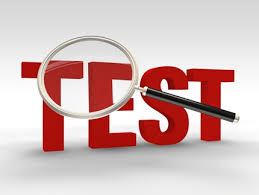
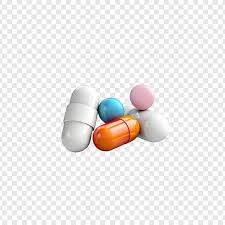
Add files via upload

diff --git a/SlideShowExperiment/slideshow.html b/SlideShowExperiment/slideshow.html
@@ -2,6 +2,12 @@
 <html lang="en">
 <head>
     <meta http-equiv="refresh" content="900"> <!-- Refresh every 15 minutes -->
+	<meta http-equiv="Cache-Control" content="no-cache, no-store, must-revalidate" />
+
+<meta http-equiv="Pragma" content="no-cache" />
+
+<meta http-equiv="Expires" content="0" /> 
+
 
     <meta charset="UTF-8">
     <meta name="viewport" content="width=device-width, initial-scale=1.0">

diff --git a/Scripts/Start PythonWebServer.py b/Scripts/Start PythonWebServer.py
@@ -7,3 +7,13 @@ os.chdir(r'C:\Users\REDACTED-HOST\Desktop\SlideShowExperiment')
 
 # Open a new command prompt window, run the http.server command on port 80, then close the window upon termination
 subprocess.Popen(['start', 'cmd', '/k', 'python -m http.server 80 ^& exit'], shell=True)
+
+
+import os
+import subprocess
+
+# Change the working directory
+os.chdir(r'C:\Users\REDACTED-HOST\Desktop\SlideShowExperiment')
+
+# Open a new command prompt window, run the http.server command on port 80, then close the window upon termination
+subprocess.Popen(['cmd', '/c', 'start', 'cmd', '/k', 'python -m http.server 80 ^& exit'], shell=True)
